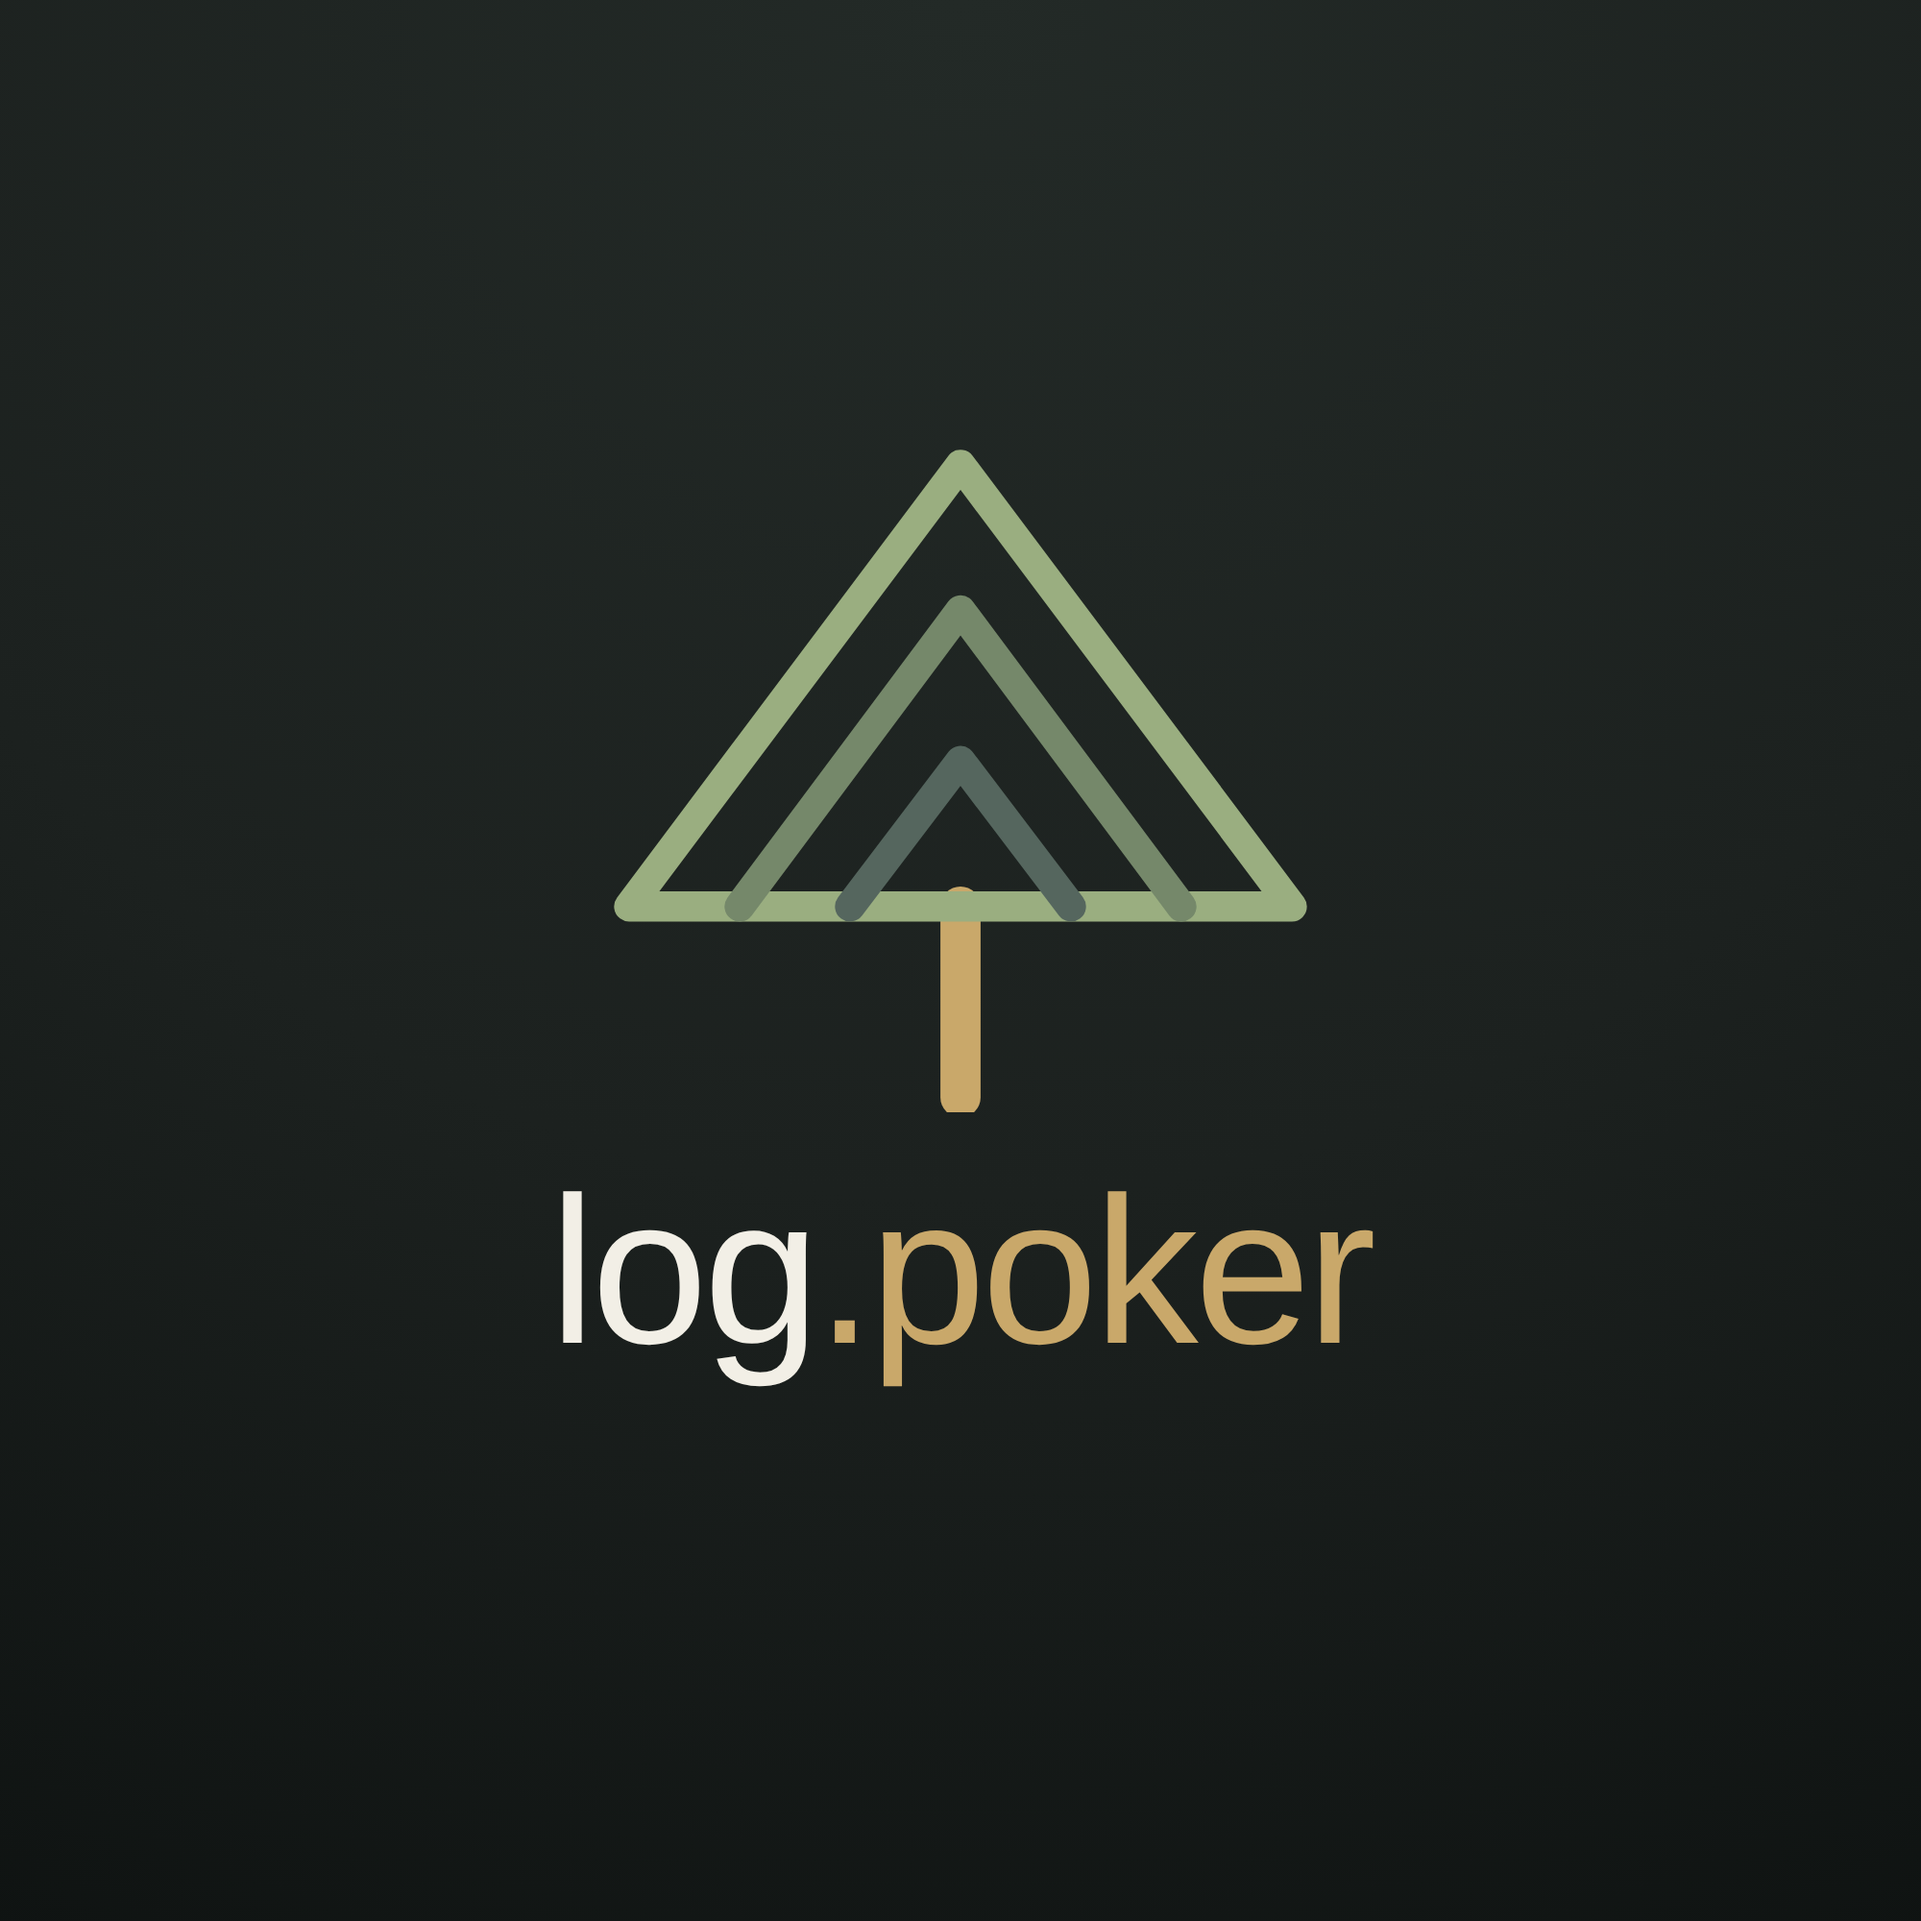
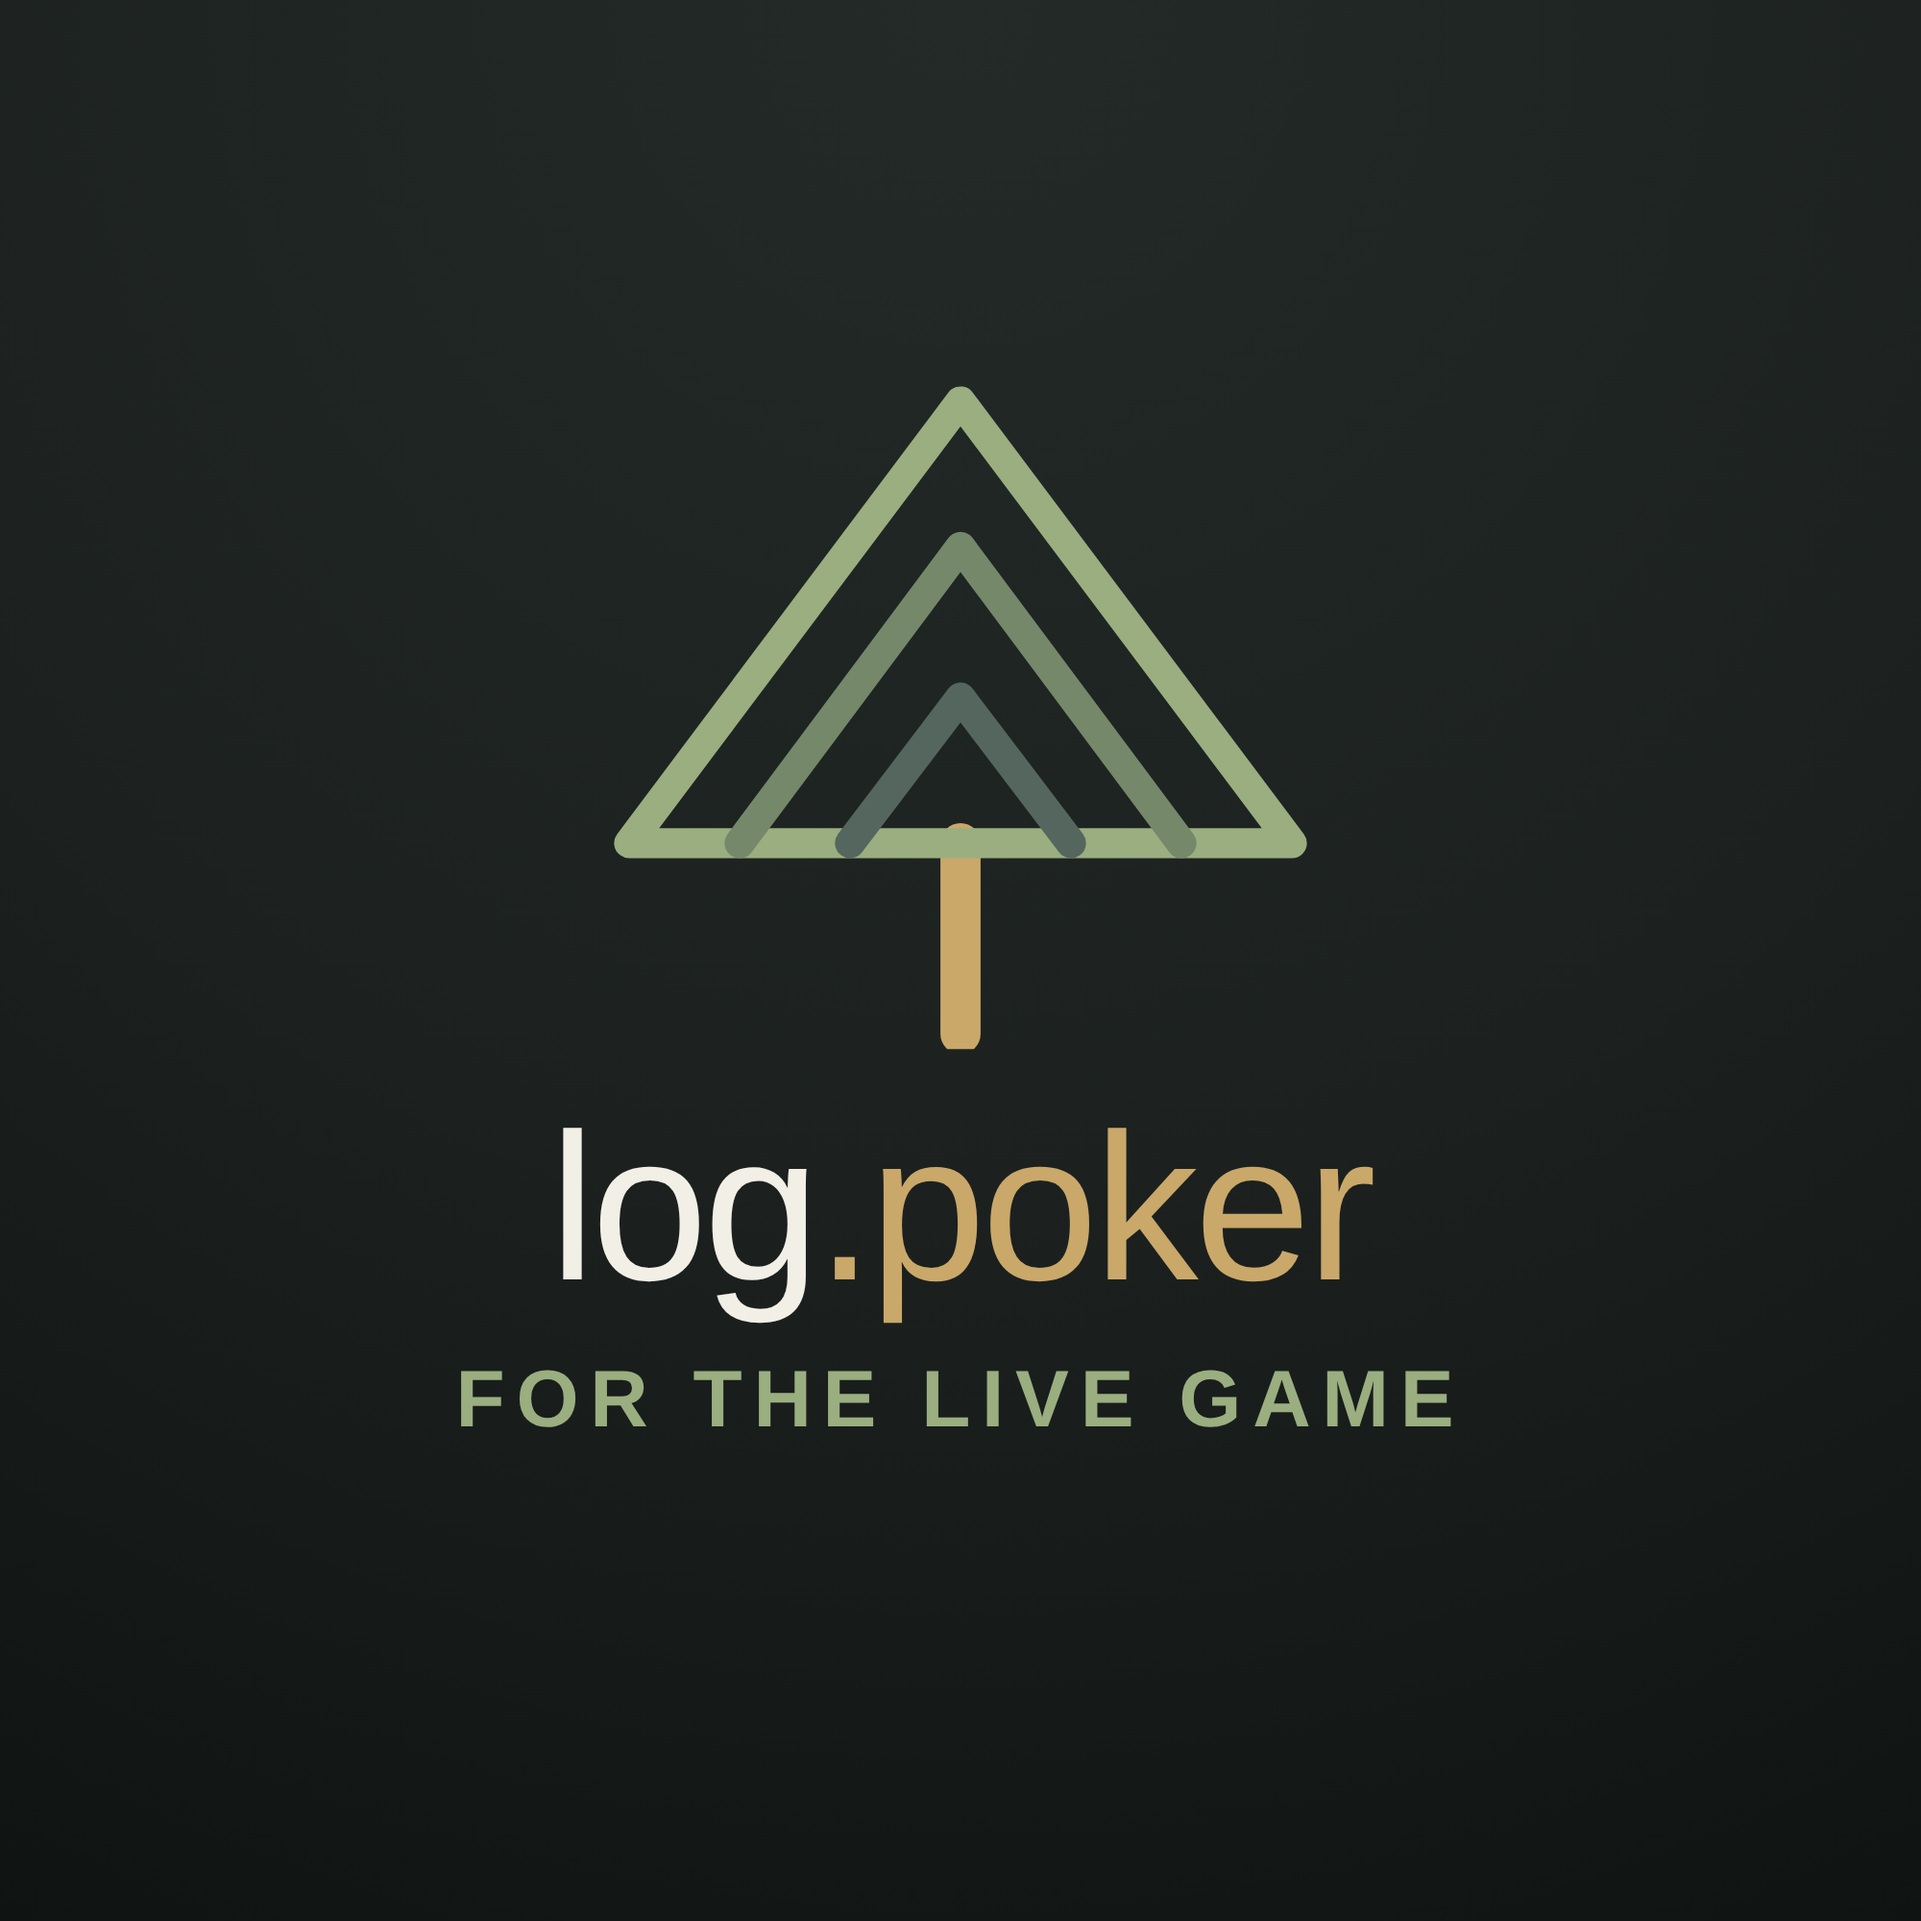
Put FOR THE LIVE GAME on the chip's identity face
The disc said what the three apps do and where to get them, but nothing on
either face said what kind of poker it is about, and the landing the code
opens does not say it either. Somebody scanning it cold could read Log as an
online tracker.

The wording is deliberately not `built for live poker players`. The mark on
this face lights no ring and the back names all three apps, so a line here
speaks for the family; naming Log's own audience would be a promise on behalf
of two apps that do not quite keep it.

The size is the vendor's floor rather than a preference. 1.5mm of cap is what
the art guide asks for, this sets at 1.54mm, and every quieter draft was under
it: at 48px the line measures 0.94mm and would fire as a smudge. That makes it
wider than the wordmark, so the name leads on weight instead, with two and a
half times the cap height.

Side 2 is untouched and its renders are byte for byte identical.

Claude-Session: https://claude.ai/code/session_01XZfPuXMk8yuEs1zP5EYBKf

Changed region(s): [[0.31, 0.186, 0.682, 0.496], [0.217, 0.527, 0.775, 0.744]]

diff --git a/design/chip/side-1.html b/design/chip/side-1.html
@@ -2,9 +2,10 @@
 <meta charset="utf-8">
 <title>Log chip -- side 1</title>
 
-<!-- The identity face: the family mark over log.poker, and nothing else on it.
-     This is the side somebody turns over in their fingers while they decide
-     whether to ask what it is. Side 2 is the side that answers.
+<!-- The identity face: the family mark over log.poker, and the one line saying
+     what kind of poker this is about. This is the side somebody turns over in
+     their fingers while they decide whether to ask what it is. Side 2 is the
+     side that answers.
 
      Rasterized by `npm run chip`.
 
@@ -45,8 +46,10 @@
   h1 {
     /* The bottom margin is not space under the word. Flex centers the column
        and a line box carries its ink high inside itself, so the pair sat below
-       the middle of the disc; growing the column downward lifts it back. */
-    margin: 54px 0 96px;
+       the middle of the disc; growing the column downward lifts it back. The
+       lift now belongs to the line under it, which is the bottom of the
+       column. */
+    margin: 54px 0 46px;
     font-family: var(--sans);
     font-weight: 500;
     font-size: 208px;
@@ -61,6 +64,51 @@
   /* The extension, quieter than the name. Same trick as the site's app cards,
      where the host sits under the app's name in the dim. */
   h1 .tld { color: var(--gold); }
+
+  /* Who the object is for.
+
+     This is the one thing neither face carried. The back spells the acronym
+     and this face spells it out, but nothing on the disc said what kind of
+     poker it is about, and the landing the code opens does not say it either:
+     somebody who scans it cold could read Log as an online tracker.
+
+     It is not the `Be the LOG` line coming back. That one pointed at the
+     acronym the two faces already spell, which is the disc explaining itself
+     to itself. This one carries something the object does not otherwise say.
+
+     **The wording has to be true of all three apps**, because the mark above
+     it lights no ring and the back names all three. `Built for live poker
+     players` is Log's own claim and would be a promise on behalf of two apps
+     that do not quite keep it, the same reason the landing qualifies its free
+     claim as Log's. The live game is where all three sit: the drills are for
+     the table, the log is of a session at one, and the meditations are for
+     before and after it.
+
+     **The size is a floor, not a preference.** The vendor's art guide asks for
+     1.5mm of cap on the finished chip, and GROUND on the back measures 1.72mm
+     of ink in the render. 80px lands at 1.57mm, and anything quiet enough to
+     sit comfortably under the wordmark is under the floor: at 48px this line
+     would be 0.94mm and would fire as a smudge. So the line is wider than the
+     name above it. The name still leads on weight, with two and a half times
+     the cap height, which is the relationship that survives a matte fire.
+
+     Sage rather than gold, matching the verbs on the back. Gold here would
+     compete with `.poker` directly above it, and the gold on this face is
+     already spent on the trunk and the extension. */
+  .live {
+    font-family: var(--sans);
+    font-weight: 600;
+    font-size: 80px;
+    line-height: 1;
+    /* Tighter than the back's 0.2em. The verbs there stand alone in their own
+       bands; this one is a caption under a word and reads as one line rather
+       than as separated letters. */
+    letter-spacing: 0.14em;
+    color: var(--canopy-outer);
+    white-space: nowrap;
+    /* The column's lift, moved down off the wordmark. */
+    margin-bottom: 96px;
+  }
 </style>
 
 <div class="face">
@@ -77,4 +125,6 @@
   </svg>
 
   <h1>log<span class="tld">.poker</span></h1>
+
+  <div class="live">FOR THE LIVE GAME</div>
 </div>

diff --git a/design/chip/README.md b/design/chip/README.md
@@ -16,7 +16,7 @@ names all three apps where that one carries a domain somebody has to type.
 
 | | |
 |---|---|
-| `side-1.html` | the identity face: the family mark over `log.poker` |
+| `side-1.html` | the identity face: the family mark over `log.poker`, and who it is for |
 | `side-2.html` | the ask face: the mark, the code, and the three verbs |
 | `proof.html` | both faces on a drawn chip with the safe circle dashed over them, for looking at and never for sending |
 | `face.css` | the ground, the palette and the artboard geometry |
@@ -88,9 +88,36 @@ not anonymous once it is off the table.
 this disc stands for all three apps, so it lights none. That is also what stops
 the object reading as one app's merchandise when it is the family's front door.
 
-## Two things to check on the physical proof
+## The line on the front
 
-Neither can be settled on a screen, and both are named here so they are not
+`FOR THE LIVE GAME` sits under the wordmark, and it is the one thing neither
+face carried. The verbs name what the three apps do and the domain names where
+to get them, but nothing on the disc said what kind of poker it is about, and
+the landing the code opens does not say it either: somebody scanning it cold
+could read Log as an online tracker.
+
+It is not `Be the LOG` coming back. That line pointed at the acronym the two
+faces already spell, which is the disc explaining itself to itself. This one
+carries something the object does not otherwise say.
+
+**The wording is true of all three apps**, which the audience is not. `Built
+for live poker players` is Log's own claim, and on a disc whose mark lights no
+ring it would be a promise on behalf of two apps that do not quite keep it, the
+same reason the landing qualifies its free claim as Log's. The live game is
+where all three sit: the drills are for the table, the log is of a session at
+one, and the meditations are for before and after it.
+
+**It is wider than the name, and that is the floor's doing.** The vendor asks
+for 1.5mm of cap and this sets at 1.54mm, which is as quiet as the line gets
+before it fires as a smudge; at that size the words run 27.3mm against the
+wordmark's 22.3mm. Quieter drafts were tried and every one of them was under
+the floor: at 48px the line measures 0.94mm of cap. The name still leads on
+weight rather than width, with two and a half times the cap height, and weight
+is the part that survives a matte fire.
+
+## Three things to check on the physical proof
+
+None can be settled on a screen, and all three are named here so they are not
 rediscovered by unwrapping a hundred chips.
 
 **OBSERVE's margins.** It is the longest of the three verbs and it sits turned
@@ -101,6 +128,12 @@ way round, and this is what that cost.
 **The innermost canopy ring.** It is the quietest stroke in the mark by design.
 On this ground it measures 3.0:1 against the outer ring's 7.7:1, and a matte
 fire is exactly where a value that low goes from quiet to absent.
+
+**The front line's cap.** At 1.54mm it clears the vendor's 1.5mm floor by four
+hundredths of a millimeter, which is a number that means nothing until it is
+fired. It is the first thing on either face to sit that close to a limit, and
+the only remedy if it comes back soft is fewer words rather than smaller ones:
+`LIVE GAME` holds the same cap in 15.0mm.
 
 ## What one costs
 
